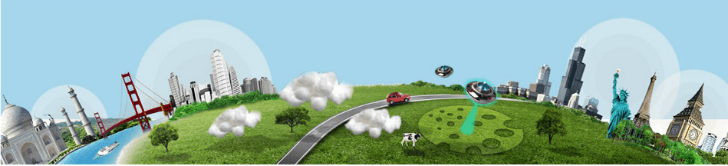
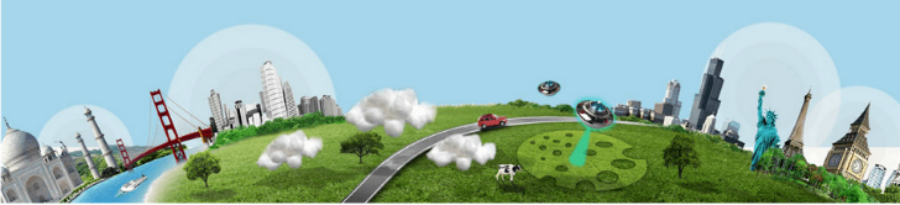
added content, built footer

diff --git a/index.html b/index.html
@@ -11,17 +11,19 @@
   <header>
     <div class="mainHeader">
       <img src="img/ClarityLogo.png" alt="Logo" class="logo">
-      <div class="dropdown">
-        <button onclick="myFunction()" class="dropbtn"><img src="img/menu-icon.png" alt="menu bars" class="menu-icon"></button>
-        <div id="myDropdown" class="dropdown-content">
-          <a href="#">Why Clarity</a>
-          <a href="#">Benefits</a>
-          <a href="#">Diversity</a>
-        </div>
-      </div>      
+        <div class="dropdown">
+          <button onclick="myFunction()" class="dropbtn"><img src="img/menu-icon.png" alt="menu bars" class="menu-icon"></button>
+          <div id="myDropdown" class="dropdown-content">
+            <a href="#">Why Clarity</a>
+            <a href="#">Benefits</a>
+            <a href="#">Diversity</a>
+          </div>
+      </div>    
       <div class="grad"></div>
     </div>
-    <img src="img/CityScape.png" atl="City" class="city">
+    <div id="banner">
+      <img src="img/CityScape.png" atl="City">
+    </div>
   </header>
 
   <div class="whyClarity">
@@ -62,11 +64,9 @@
 
   <footer>
     <div class="footerLinks">
-      <ul>
-        <li><a href="#">Careers</a></li> | 
-        <li><a href="#">Benefits</a></li> | 
-        <li><a href="#">Privacy</a></li>
-      </ul>
+      <a href="#">Careers</a></li> | 
+      <a href="#">Benefits</a></li> | 
+      <a href="#">Privacy</a></li>
     </div>
   </footer>
   <script src="img/js/scripts.js"></script>

diff --git a/css/styles.css b/css/styles.css
@@ -60,12 +60,14 @@ img {
 .show {
 	display: block;
 }
+
 .grad {
     height: 25px;
     background: linear-gradient(#808080, #d9d9d9); 
 }
 
-.city {
+#banner img {
+	width: 100%;
 	padding-top: 5px;
 }
 
@@ -89,3 +91,29 @@ img {
 /**************************
 		Footer
 **************************/
+
+footer {
+	background-color: #e6e6e6;
+	padding: 20px;
+	text-align: center;
+}
+
+.footerLinks {
+	display: inline;
+}
+
+
+
+
+
+
+
+
+
+
+
+
+
+
+
+
